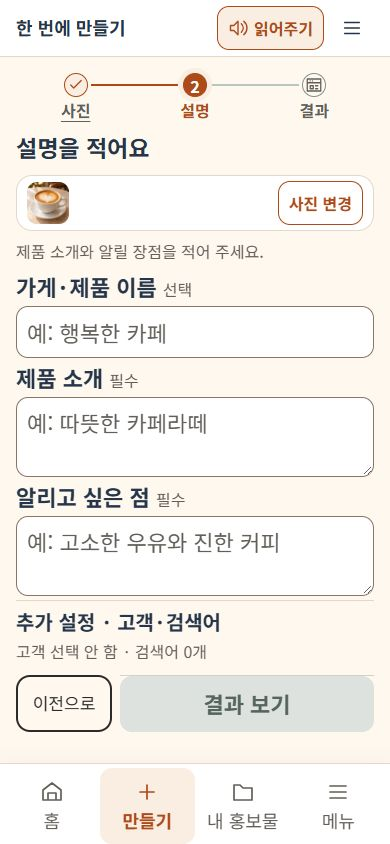
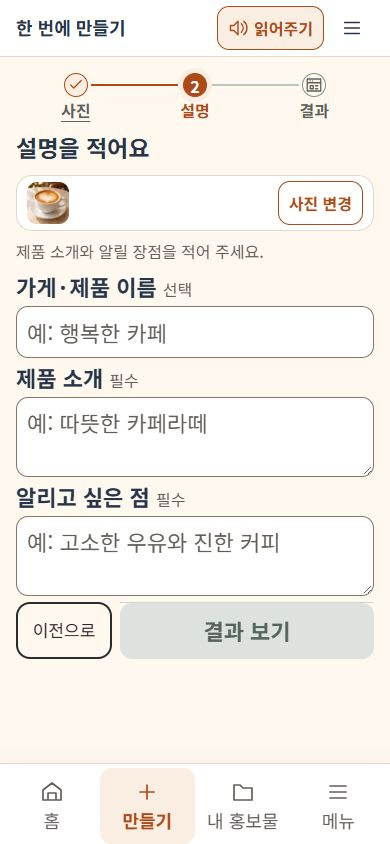
Refresh simplified photo and description verification evidence

Changed region(s): [[0.0308, 0.7085, 0.9846, 0.8934]]

diff --git a/ad_prototype/docs/review/evidence-20261013/README.md b/ad_prototype/docs/review/evidence-20261013/README.md
@@ -1,0 +1,11 @@
+# 검증 자료의 현재 범위
+
+최신 사용자 요청으로 사진 단계의 채널·결과 종류 선택과 고정 안내 바를 제거했다. 버튼은 본문의 ‘다음 단계’다. 설명 화면의 추가 설정은 비활성화해 렌더링하지 않는다.
+
+- 현재 사진/설명/직접 결과 진입: `simplified-flow-checks.json`, `simplified-flow-sizes.json`.
+- `photo-next.png`, `details.png`, `results.png`는 위 간소화 이후 캡처다.
+- `photo-next-checks.json`은 고정 안내 바가 있던 이전 검증 자료다. 해당 바는 현재 제거됐으며 이 수치를 최신 배치로 재사용하지 않는다.
+- `checks.json`은 앞서 검증한 로그인 시안·글씨 크기·예시 저장/복사·기록 경로의 기록이다. 모든 항목을 모든 크기에서 반복한 것은 아니다.
+- `home-sizes.json`과 `home.png`는 유지된 현재 커피 홈 구성의 자료다.
+
+실제 AI·인증 서버·결제·실기기 키보드·음성 품질은 미검증이며 UI 시연과 구분한다.
